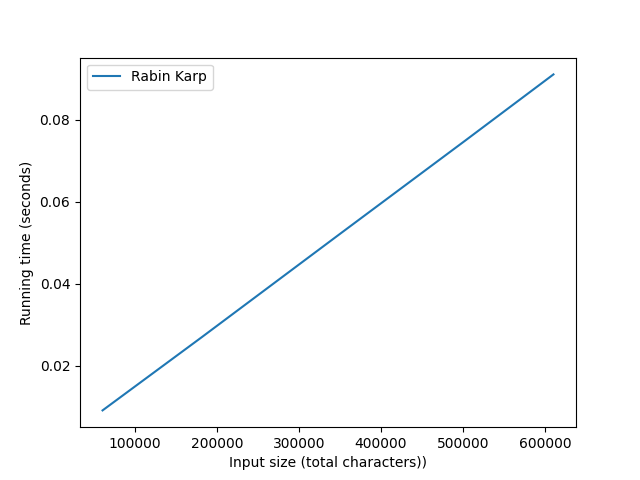
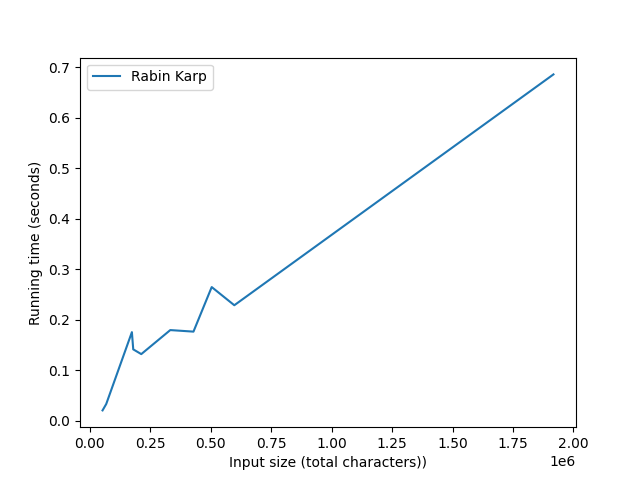
main runs on last 10 files in the dataset

diff --git a/main.py b/main.py
@@ -15,11 +15,14 @@ src_dataset = natsorted(
 sus_dataset = natsorted(
     glob.glob("Data/external-detection-corpus/source-documents/*.txt"), alg=ns.IGNORECASE)
 
+# get the maximum of 10 or dataset length
+max_files = min(len(src_dataset), 10)
+
 
 def testAlgorithm(myFunction, time_array: list, algoName: str):
-    for i in range(len(src_dataset)[-10:]):
-        src_file = src_dataset[i]
-        sus_file = sus_dataset[i]
+    for i in range(max_files):
+        src_file = src_dataset[-10:][i]
+        sus_file = sus_dataset[-10:][i]
 
         # length of source file + length of sus file
         input_size = len(open(src_file, encoding="utf-8").read()) + \
